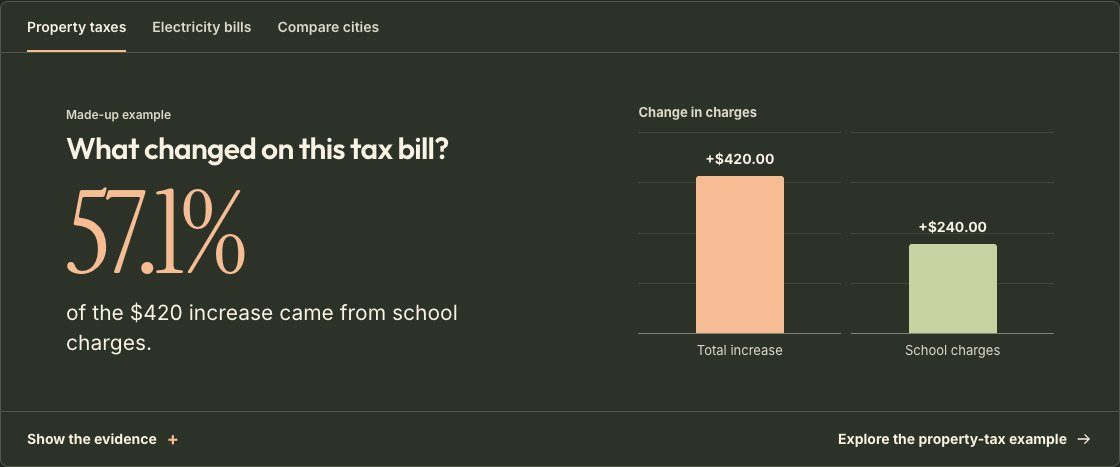
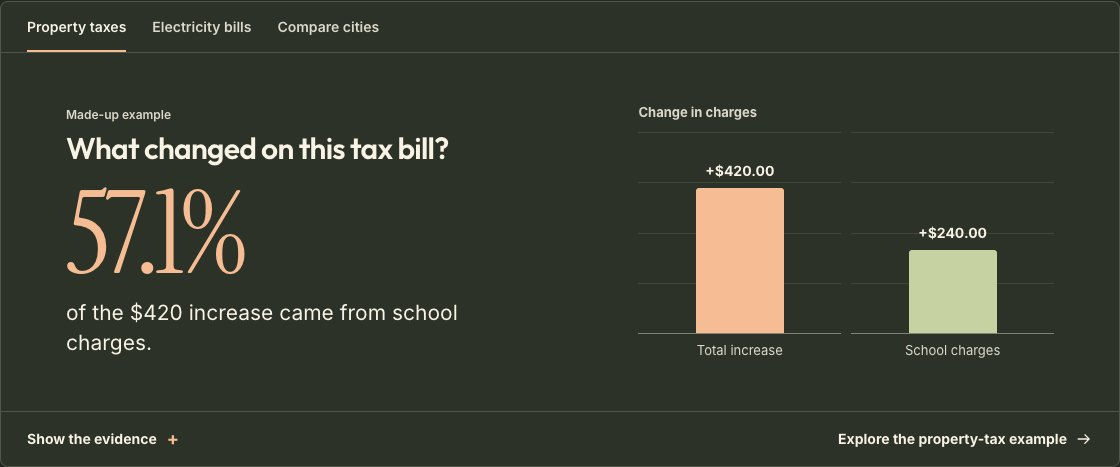
Keep the demo bars proportional at narrow widths

Changed region(s): [[0.625, 0.3298, 0.7188, 0.4197], [0.8125, 0.4797, 0.9062, 0.5396]]

diff --git a/src/app/intelligence/public-landing-discovery.component.scss b/src/app/intelligence/public-landing-discovery.component.scss
@@ -68,7 +68,7 @@
 .bar-value { margin-bottom: 7px; font-size: 14px; font-weight: 650; white-space: nowrap; }
 .bar-fill {
   width: min(65%, 88px);
-  height: calc(var(--bar-height) * .78);
+  flex: 0 0 calc(var(--bar-height) * .72);
   border-radius: 3px 3px 0 0;
   background: var(--chart-accent);
   transform-origin: bottom;

diff --git a/docs/agent-handoff/DEVELOPMENT_LOG.md b/docs/agent-handoff/DEVELOPMENT_LOG.md
@@ -510,5 +510,5 @@ Exact final commit/PR and independently executed CI status recorded in GitHub/co
 
 - OpenAI / Codex. Founder rejected the Wow 2.2 visual direction and authorized a separate design draft. Branch `codex/wow-3-editorial-homepage` starts from master `449f829f733553c4c8afbf6c0748d82566b0048e`. PR #90 remains the comparison at `6a1f33d35e3547d218e22351ee89e81aaedfdf36`.
 - Rebuilt the Angular public landing composition and scoped styles around three sections. Added two responsive generated WebP sizes and local OFL display fonts. Chart presentation reuses the same fixture values and Census sample. Detailed account pricing and local-file disclosures remain on their existing pages. No commerce, auth, entitlement, generation or infrastructure edits.
-- [Full mobile and desktop captures, tested scope and approval boundary](../design/wow-3-20261112/REVIEW.md). Exact-head workflow totals are attached to the draft. Updated the current snapshot, master project record, growth plan and Notion hub.
+- [Full mobile and desktop captures, tested scope and approval boundary](../design/wow-3-20261112/REVIEW.md). The narrow-screen chart regression exposed flex compression of the taller bar. A fixed proportional basis keeps both bars on the same scale. Exact-head workflow totals are attached to the draft. Updated the current snapshot, master project record, growth plan and Notion hub.
 - PR #88 remains the production baseline. Next compare the designs, observe first use with permitted participants and obtain explicit exact-head release approval if the founder accepts Wow 3.0. Conversion and revenue remain unknown.
